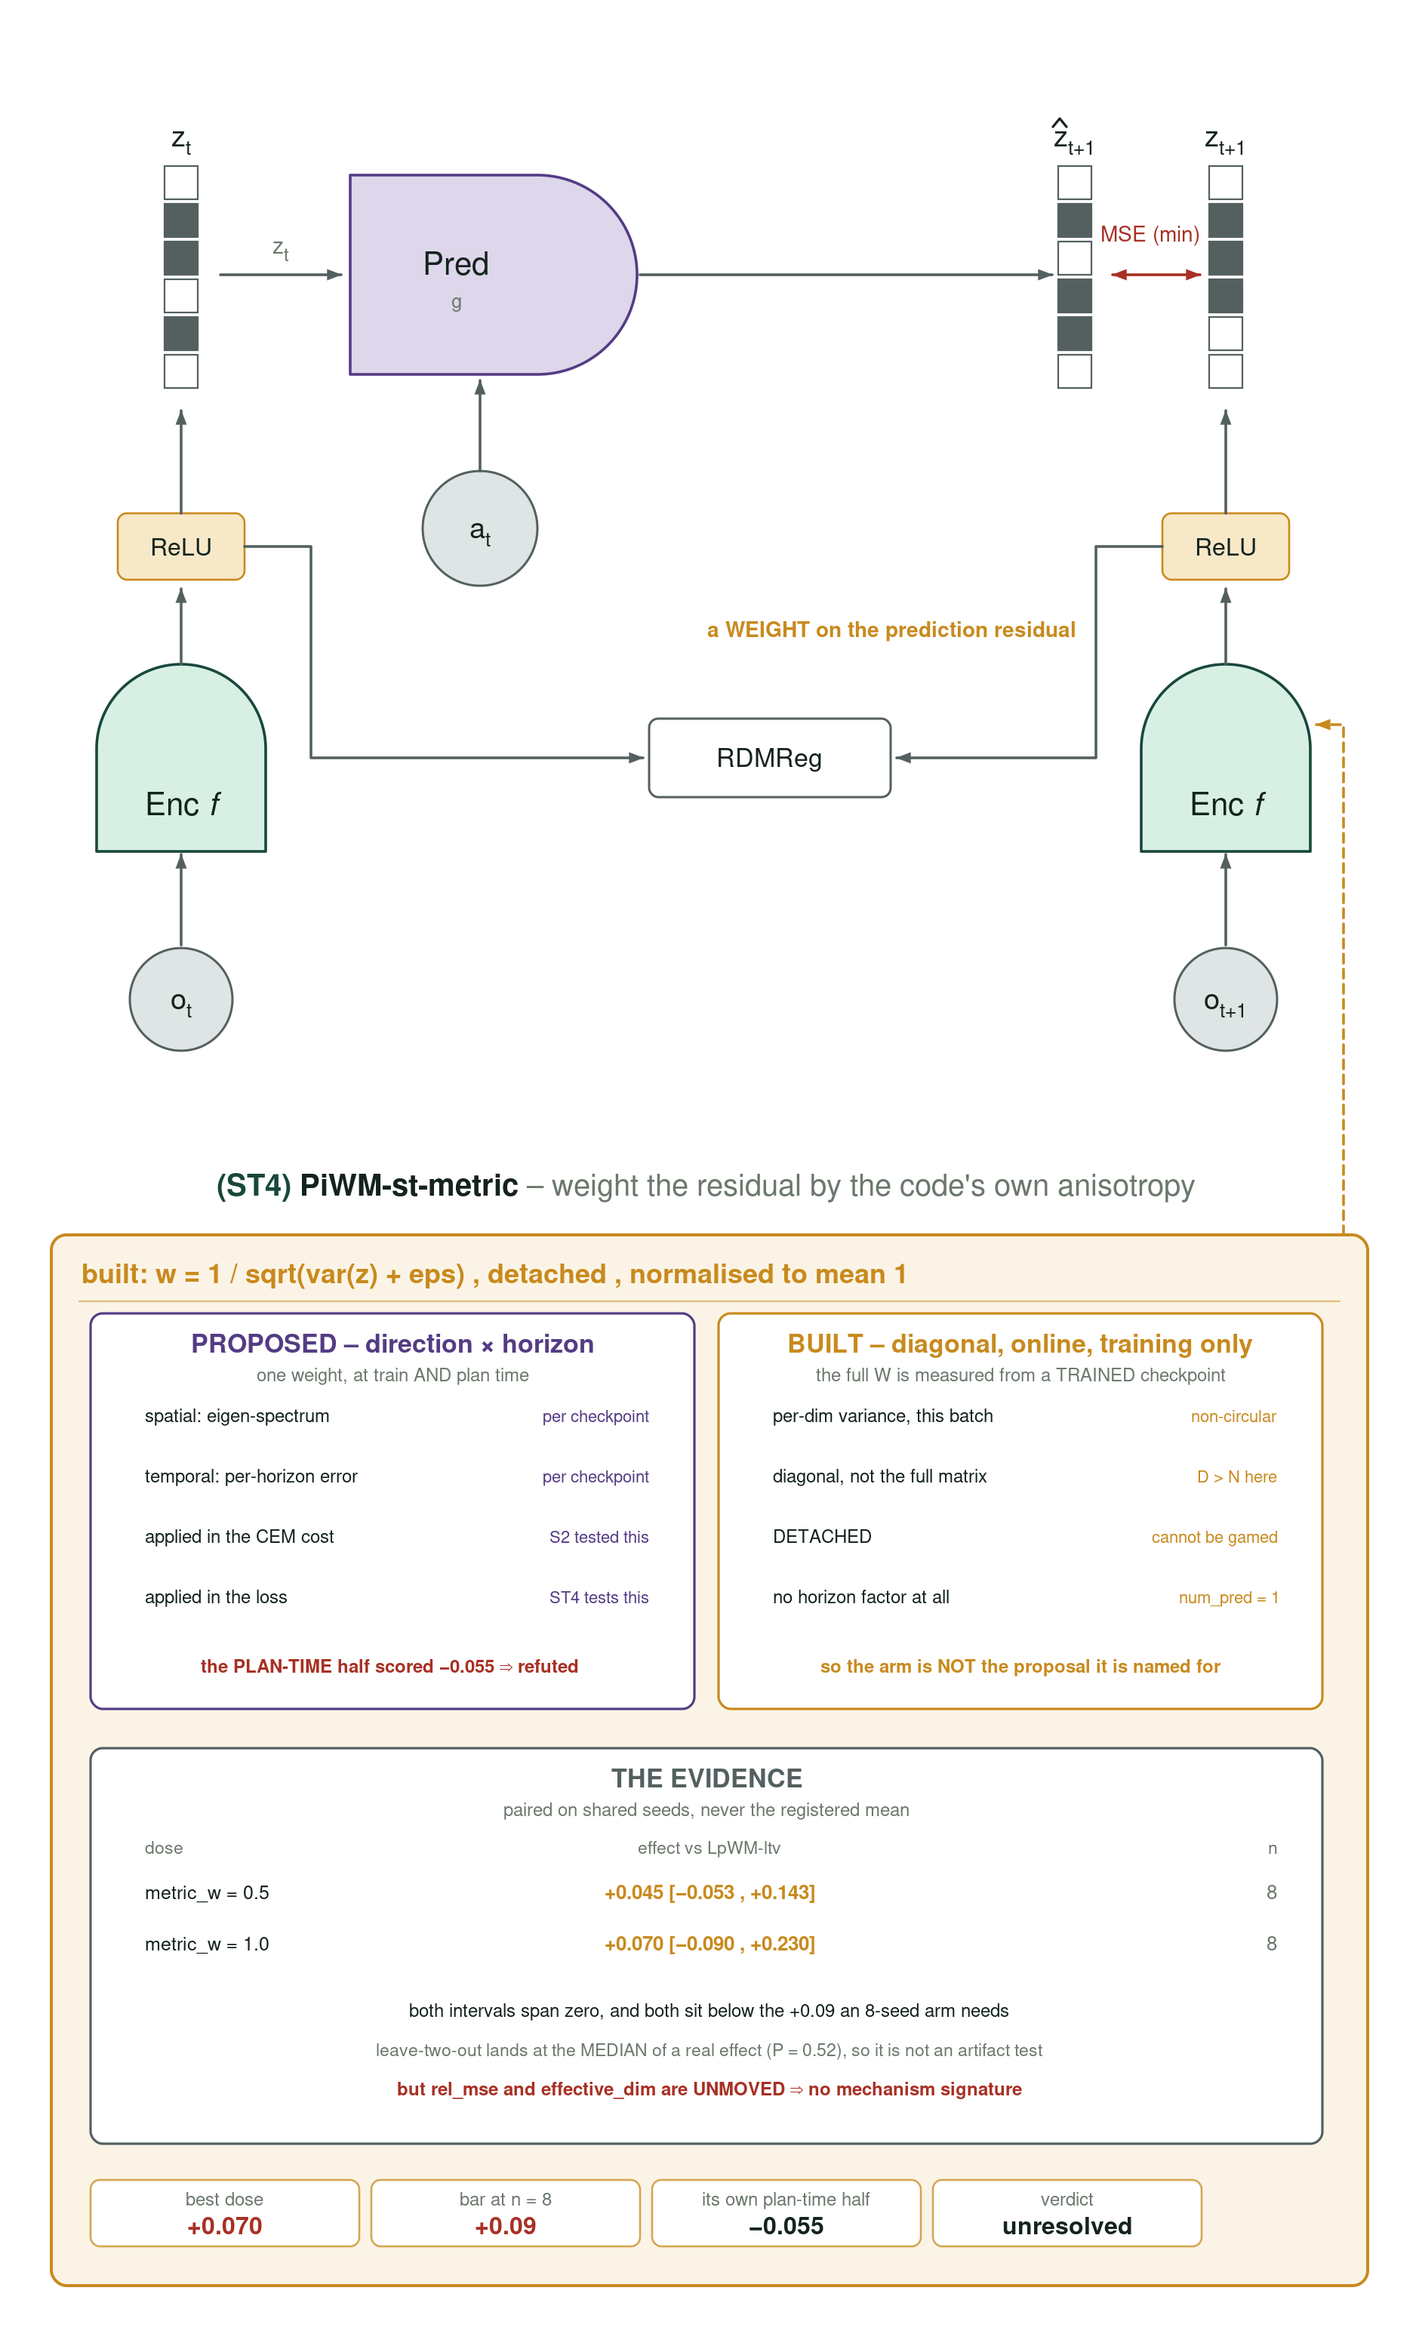
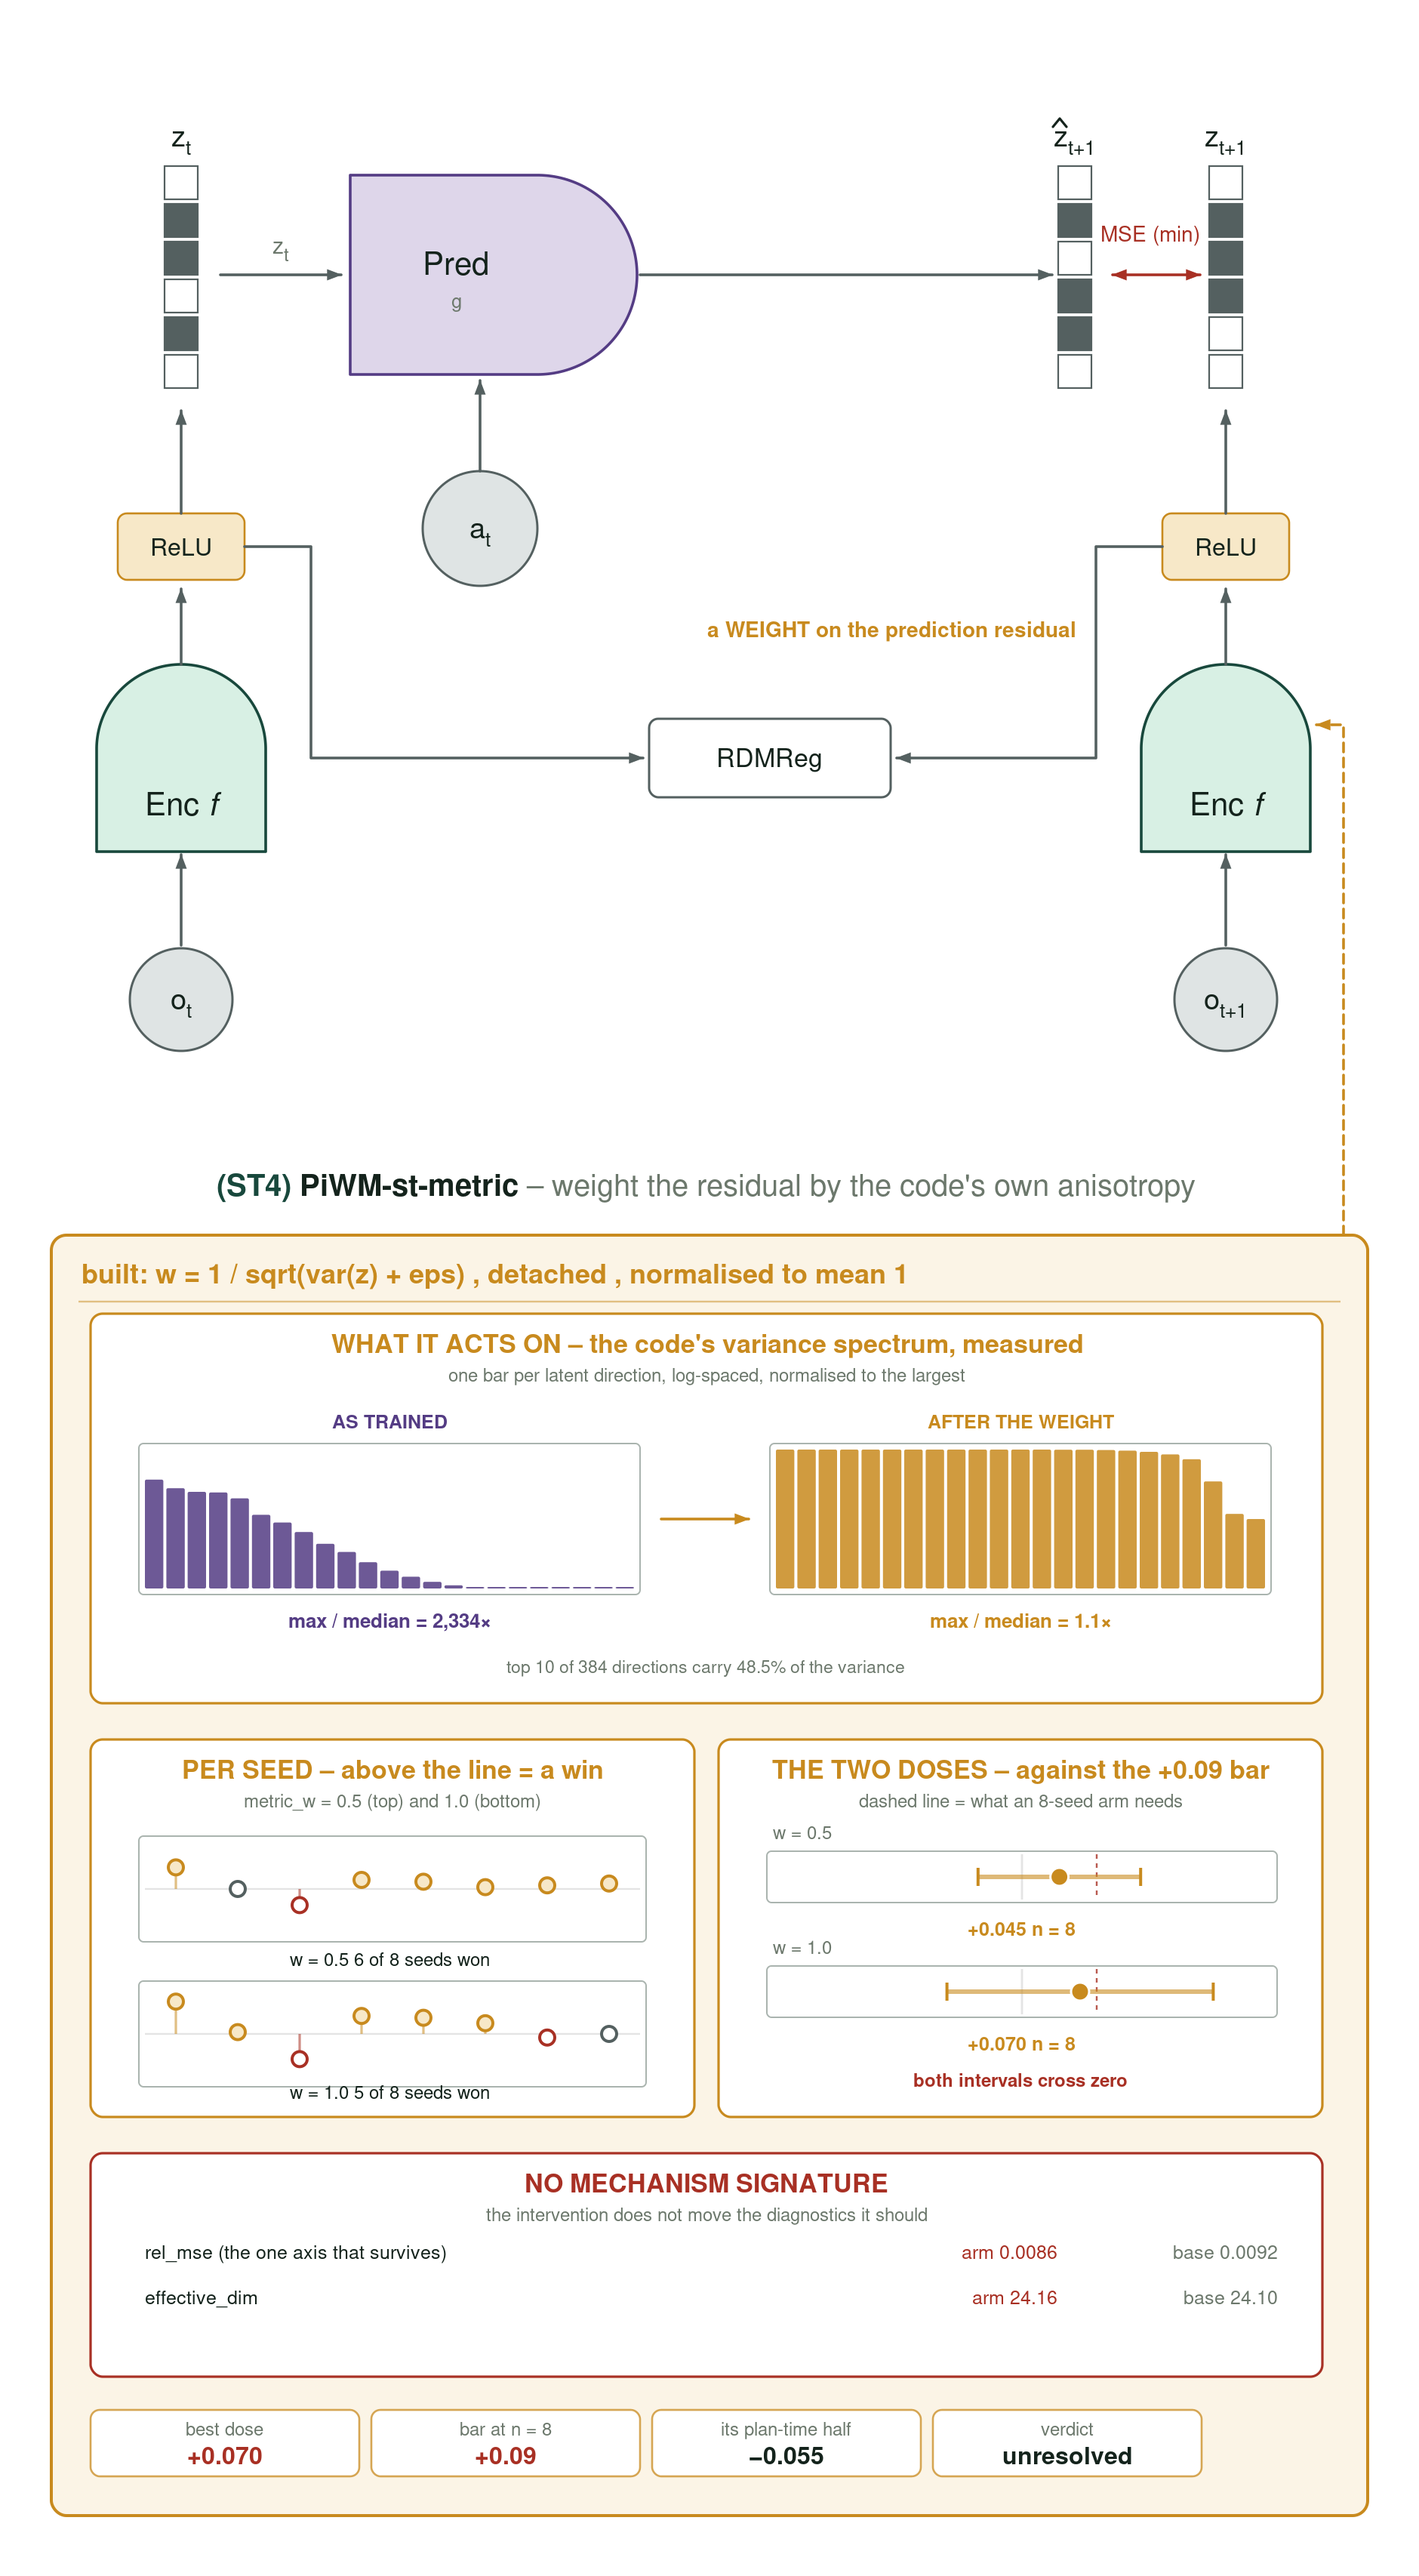
ST4 figure: draw the evidence instead of listing it
The previous version was rows of text in boxes. Three real plots now, every number
measured at render time, nothing typed:

  the spectrum it acts on   recovered FROM the saved whitening matrix -- W = (C+eps)^(-1/2),
                            so C's eigenvalues are W's raised to -2. Drawn twice, as trained
                            and after the weight: max/median 2,334x collapses to 1.1x, and
                            the top 10 of 384 directions carry 48.5% of the variance. This
                            is the anisotropy the whole S2/ST4 family is premised on, shown
                            rather than asserted.
  the per-seed deltas       a dot row on a zero line, both doses, wins above and losses
                            below -- so "6 of 8" is visible rather than claimed.
  the two dose intervals    drawn against zero AND against the +0.09 an 8-seed arm needs.
                            Both crossing zero is the point of the panel.

Three new primitives (bars, dotrow, civ) rather than more text helpers; the house had no
bar chart, no dot row and no interval mark. A tie draws slate, not crimson -- +0.000 is not
a loss.

The last panel stays text on purpose: rel_mse 0.0086 vs 0.0092 and effective_dim 24.16 vs
24.10 are things that did NOT move, and there is nothing to draw.

diff --git a/analysis/round8_new_figs.py b/analysis/round8_new_figs.py
@@ -46,6 +46,8 @@ import argparse
 import os
 import sys
 
+import numpy as np
+
 sys.path.insert(0, os.path.dirname(os.path.dirname(os.path.abspath(__file__))))
 from analysis.arch_figs import (  # noqa: E402,F401
     ACCENT, ACCENT_FILL, DIM, GRID, INK, MUTED, WHITE,
@@ -154,6 +156,94 @@ def patchgrid(x, y, n, cut, key, cell=18, gap=4):
                     f'fill="{ACCENT_FILL[key] if on else WHITE}" '
                     f'stroke="{ACCENT[key] if on else GRID}" stroke-width="1"/>\n')
     return out
+
+
+# --------------------------------------------------------------- ST4's drawn evidence
+# The code's variance spectrum, recovered at render time from the saved whitening matrix:
+# W = (C + eps I)^(-1/2), so the eigenvalues of C are the eigenvalues of W raised to -2.
+# Nothing here is typed; if the matrices change the picture changes.
+def _spectrum(run="LpWM-ltv_pd384_bf16_s3", nb=26):
+    import torch
+    p = os.path.join(REPO, "assets", "wscore", run + ".pt")
+    if not os.path.exists(p):
+        return None
+    W = torch.load(p, map_location="cpu")["W"].double()
+    ev = torch.linalg.eigvalsh(W).clamp_min(1e-12)
+    lam = (ev ** -2).numpy()
+    lam = np.sort(lam)[::-1]
+    idx = np.unique(np.round(np.logspace(0, np.log10(len(lam) - 1), nb)).astype(int))
+    raw = lam[idx] / lam[0]
+    w = 1.0 / np.sqrt(lam + 1e-3 * lam.mean())
+    wl = lam * w * w
+    return raw, (wl[idx] / wl[0]), float(lam[0] / np.median(lam)), float(wl[0] / np.median(wl))
+
+
+def bars(x, y, w, h, vals, key, base_key="slate"):
+    """A bar per value, heights normalised to the first. One bar IS one latent direction."""
+    n = len(vals)
+    bw = (w - (n - 1) * 2.0) / n
+    s = (f'<rect x="{x - 4}" y="{y - 4}" width="{w + 8}" height="{h + 8}" rx="3" '
+         f'fill="{WHITE}" stroke="{DIM}" stroke-width="1"/>\n')
+    for i, v in enumerate(vals):
+        bh = max(1.0, float(v) * h)
+        s += (f'<rect x="{x + i * (bw + 2.0):.1f}" y="{y + h - bh:.1f}" '
+              f'width="{bw:.1f}" height="{bh:.1f}" rx="1" fill="{ACCENT[key]}" '
+              f'opacity="0.85"/>\n')
+    return s
+
+
+def dotrow(x, y, w, h, deltas, key):
+    """Per-seed deltas on a zero line: above = the arm won that seed, below = it lost."""
+    s = (f'<rect x="{x - 4}" y="{y - 4}" width="{w + 8}" height="{h + 8}" rx="3" '
+         f'fill="{WHITE}" stroke="{DIM}" stroke-width="1"/>\n')
+    mx = max(0.42, max(abs(float(d)) for d in deltas) * 1.15)
+    zy = y + h / 2.0
+    s += (f'<line x1="{x}" y1="{zy:.1f}" x2="{x + w}" y2="{zy:.1f}" '
+          f'stroke="{GRID}" stroke-width="1.2"/>\n')
+    n = len(deltas)
+    for i, d in enumerate(deltas):
+        cx = x + (i + 0.5) * (w / n)
+        cy = zy - (float(d) / mx) * (h / 2.0 - 6)
+        col = (ACCENT[key] if float(d) > 0
+               else (ACCENT["slate"] if abs(float(d)) < 1e-9 else ACCENT["crit"]))
+        s += (f'<line x1="{cx:.1f}" y1="{zy:.1f}" x2="{cx:.1f}" y2="{cy:.1f}" '
+              f'stroke="{col}" stroke-width="1.6" opacity="0.55"/>\n')
+        s += (f'<circle cx="{cx:.1f}" cy="{cy:.1f}" r="5" fill="{ACCENT_FILL[key] if float(d)>0 else WHITE}" '
+              f'stroke="{col}" stroke-width="2"/>\n')
+    return s
+
+
+def civ(x, y, w, mean, lo, hi, key, lim=0.30, bar=0.09):
+    """One effect as an interval, drawn against zero and against the +0.09 noise bar."""
+    s = (f'<rect x="{x - 4}" y="{y - 4}" width="{w + 8}" height="34" rx="3" '
+         f'fill="{WHITE}" stroke="{DIM}" stroke-width="1"/>\n')
+    def px(v):
+        return x + (float(v) + lim) / (2 * lim) * w
+    cy = y + 13
+    s += (f'<line x1="{px(0):.1f}" y1="{y - 2}" x2="{px(0):.1f}" y2="{y + 28}" '
+          f'stroke="{GRID}" stroke-width="1.4"/>\n')
+    s += (f'<line x1="{px(bar):.1f}" y1="{y - 2}" x2="{px(bar):.1f}" y2="{y + 28}" '
+          f'stroke="{ACCENT["crit"]}" stroke-width="1.2" stroke-dasharray="3,3" '
+          f'opacity="0.8"/>\n')
+    s += (f'<line x1="{px(lo):.1f}" y1="{cy:.1f}" x2="{px(hi):.1f}" y2="{cy:.1f}" '
+          f'stroke="{ACCENT[key]}" stroke-width="3" opacity="0.6"/>\n')
+    for v in (lo, hi):
+        s += (f'<line x1="{px(v):.1f}" y1="{cy - 6:.1f}" x2="{px(v):.1f}" '
+              f'y2="{cy + 6:.1f}" stroke="{ACCENT[key]}" stroke-width="2"/>\n')
+    s += (f'<circle cx="{px(mean):.1f}" cy="{cy:.1f}" r="6" fill="{ACCENT[key]}" '
+          f'stroke="{WHITE}" stroke-width="1.5"/>\n')
+    return s
+
+
+def _deltas(arm, ctrl="LpWM-ltv"):
+    try:
+        from analysis.collect_evals import resolve_arm as _ra
+        A = _archive()
+        v, c = A[_ra(A, arm)], A[_ra(A, ctrl)]
+    except Exception:
+        return [], []
+    sh = sorted(set(v) & set(c), key=int)
+    return sh, [float(v[s]) - float(c[s]) for s in sh]
 
 
 def _signed(v, nd=3):
@@ -437,74 +527,81 @@ ST4_TITLE = "(ST4) PiWM-st-metric -- weight the residual by the code's own aniso
 
 
 def st4_metric():
-    """Proposal vs implementation vs evidence -- the three are not the same thing."""
+    """Drawn evidence: the spectrum it acts on, the per-seed deltas, the two intervals."""
     K = "amber"
     b = base(_check_title(ST4_TITLE, 890))
     b += poly([(890, PY), (890, 560), (872, 560)], color=ACCENT[K], w=1.8, dash="6,4")
     b += txt(712, 502, "a WEIGHT on the prediction residual", 14, anchor="end",
              fill=ACCENT[K], weight="bold")
 
-    PH = 696
+    PH = 848
     s = pane(PX, PY, PW, PH, K,
              "built:  w = 1 / sqrt(var(z) + eps)  , detached , normalised to mean 1")
 
-    # -- row A left: the proposal, and the half of it that is already refuted
-    s += frame(60, 950, 400, 262, "PROPOSED  " + NDASH + "  direction " + TIMES + " horizon",
-               "magenta", note="one weight, at train AND plan time")
-    for i, (t1, t2) in enumerate((
-            ("spatial: eigen-spectrum", "per checkpoint"),
-            ("temporal: per-horizon error", "per checkpoint"),
-            ("applied in the CEM cost", "S2 tested this"),
-            ("applied in the loss", "ST4 tests this"))):
-        y = 1022 + i * 40
-        s += txt(96, y, t1, 12, anchor="start", fill=INK)
-        s += txt(430, y, t2, 11, anchor="end", fill=ACCENT["magenta"])
-    s2 = _effect("PiWM-wscore")
-    s += txt(258, 1188, "the PLAN-TIME half scored "
-             + (_signed(s2[0]) if s2 else "n/a") + "  " + IMPLIES + "  refuted",
-             12, anchor="middle", fill=ACCENT["crit"], weight="bold")
+    # ---- row A: the thing it acts on, measured, drawn twice -------------------------
+    sp = _spectrum()
+    s += frame(60, 950, 816, 258, "WHAT IT ACTS ON  " + NDASH
+               + "  the code's variance spectrum, measured", K,
+               note="one bar per latent direction, log-spaced, normalised to the largest")
+    if sp:
+        raw, wtd, r_ratio, w_ratio = sp
+        s += txt(258, 1026, "AS TRAINED", 12.5, anchor="middle", fill=ACCENT["magenta"],
+                 weight="bold")
+        s += bars(96, 1040, 324, 92, raw, "magenta")
+        s += txt(258, 1158, "max / median  =  " + f"{r_ratio:,.0f}" + TIMES, 13,
+                 anchor="middle", fill=ACCENT["magenta"], weight="bold")
+        s += txt(676, 1026, "AFTER THE WEIGHT", 12.5, anchor="middle", fill=ACCENT[K],
+                 weight="bold")
+        s += bars(514, 1040, 324, 92, wtd, K)
+        s += txt(676, 1158, "max / median  =  " + f"{w_ratio:.1f}" + TIMES, 13,
+                 anchor="middle", fill=ACCENT[K], weight="bold")
+        s += aw(438, 1086, 496, 1086, K)
+        s += txt(467, 1188, "top 10 of 384 directions carry 48.5% of the variance",
+                 11.5, anchor="middle", fill=MUTED)
 
-    # -- row A right: what the code actually does
-    s += frame(476, 950, 400, 262, "BUILT  " + NDASH + "  diagonal, online, training only",
-               K, note="the full W is measured from a TRAINED checkpoint")
-    for i, (t1, t2) in enumerate((
-            ("per-dim variance, this batch", "non-circular"),
-            ("diagonal, not the full matrix", "D > N here"),
-            ("DETACHED", "cannot be gamed"),
-            ("no horizon factor at all", "num_pred = 1"))):
-        y = 1022 + i * 40
-        s += txt(512, y, t1, 12, anchor="start", fill=INK)
-        s += txt(846, y, t2, 11, anchor="end", fill=ACCENT[K])
-    s += txt(676, 1188, "so the arm is NOT the proposal it is named for",
-             12, anchor="middle", fill=ACCENT[K], weight="bold")
+    # ---- row B: the per-seed evidence, drawn ----------------------------------------
+    s += frame(60, 1232, 400, 250, "PER SEED  " + NDASH + "  above the line = a win", K,
+               note="metric_w = 0.5 (top) and 1.0 (bottom)")
+    sh05, d05 = _deltas("PiWM-st-metric")
+    sh10, d10 = _deltas("PiWM-st-metric-w1")
+    if d05:
+        s += dotrow(96, 1300, 328, 62, d05, K)
+        s += txt(258, 1382, f"w = 0.5   {sum(1 for x in d05 if x>0)} of {len(d05)} seeds won",
+                 12, anchor="middle", fill=INK)
+    if d10:
+        s += dotrow(96, 1396, 328, 62, d10, K)
+        s += txt(258, 1470, f"w = 1.0   {sum(1 for x in d10 if x>0)} of {len(d10)} seeds won",
+                 12, anchor="middle", fill=INK)
 
-    # -- row B: the evidence, stated at the level it actually supports
-    s += frame(60, 1238, 816, 262, "THE EVIDENCE", "slate",
-               note="paired on shared seeds, never the registered mean")
+    # ---- row B right: the two intervals against the bar -----------------------------
+    s += frame(476, 1232, 400, 250, "THE TWO DOSES  " + NDASH + "  against the +0.09 bar",
+               K, note="dashed line = what an 8-seed arm needs")
     e05, e10 = _effect("PiWM-st-metric"), _effect("PiWM-st-metric-w1")
-    s += txt(96, 1308, "dose", 11.5, anchor="start", fill=MUTED)
-    s += txt(470, 1308, "effect vs LpWM-ltv", 11.5, anchor="middle", fill=MUTED)
-    s += txt(846, 1308, "n", 11.5, anchor="end", fill=MUTED)
-    for i, (lab, e) in enumerate((("metric_w = 0.5", e05), ("metric_w = 1.0", e10))):
-        y = 1338 + i * 34
-        s += txt(96, y, lab, 12.5, anchor="start", fill=INK)
+    for i, (lab, e) in enumerate((("w = 0.5", e05), ("w = 1.0", e10))):
+        y = 1306 + i * 76
+        s += txt(512, y - 8, lab, 12, anchor="start", fill=MUTED)
         if e:
-            s += txt(470, y, _signed(e[0]) + "  [" + _signed(e[1]) + " , "
-                     + _signed(e[2]) + "]", 13, anchor="middle", fill=ACCENT[K],
-                     weight="bold")
-            s += txt(846, y, str(e[3]), 13, anchor="end", fill=MUTED)
-    s += txt(470, 1416, "both intervals span zero, and both sit below the +0.09 an "
-             "8-seed arm needs", 12, anchor="middle", fill=INK)
-    s += txt(470, 1442, "leave-two-out lands at the MEDIAN of a real effect (P = 0.52), "
-             "so it is not an artifact test", 11.5, anchor="middle", fill=MUTED)
-    s += txt(470, 1468, "but rel_mse and effective_dim are UNMOVED "
-             + IMPLIES + "  no mechanism signature", 12, anchor="middle",
+            s += civ(512, y + 4, 330, e[0], e[1], e[2], K)
+            s += txt(677, y + 56, _signed(e[0]) + "   n = " + str(e[3]), 12.5,
+                     anchor="middle", fill=ACCENT[K], weight="bold")
+    s += txt(676, 1462, "both intervals cross zero", 12, anchor="middle",
              fill=ACCENT["crit"], weight="bold")
 
-    s += strip(PIN, 1524, [
+    # ---- row C: the two things that are NOT drawn, because they did not move --------
+    s += frame(60, 1506, 816, 148, "NO MECHANISM SIGNATURE", "crit",
+               note="the intervention does not move the diagnostics it should")
+    for i, (nm, a, bl) in enumerate((("rel_mse (the one axis that survives)", "0.0086", "0.0092"),
+                                     ("effective_dim", "24.16", "24.10"))):
+        y = 1576 + i * 30
+        s += txt(96, y, nm, 12.5, anchor="start", fill=INK)
+        s += txt(700, y, "arm " + a, 12.5, anchor="end", fill=ACCENT["crit"])
+        s += txt(846, y, "base " + bl, 12.5, anchor="end", fill=MUTED)
+
+    s2 = _effect("PiWM-wscore")
+    s += strip(PIN, 1676, [
         ("best dose", _signed(e10[0]) if e10 else "n/a", True),
         ("bar at n = 8", "+0.09", True),
-        ("its own plan-time half", _signed(s2[0]) if s2 else "n/a", False),
+        ("its plan-time half", _signed(s2[0]) if s2 else "n/a", False),
         ("verdict", "unresolved", False)], K, cw=178)
     return b + s, PY + PH + 40
 
